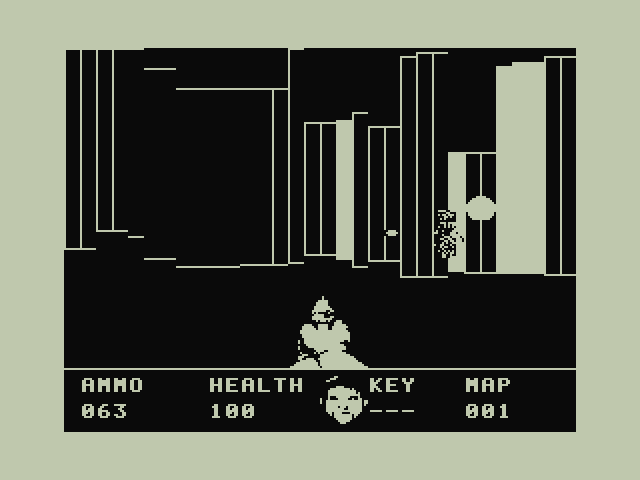
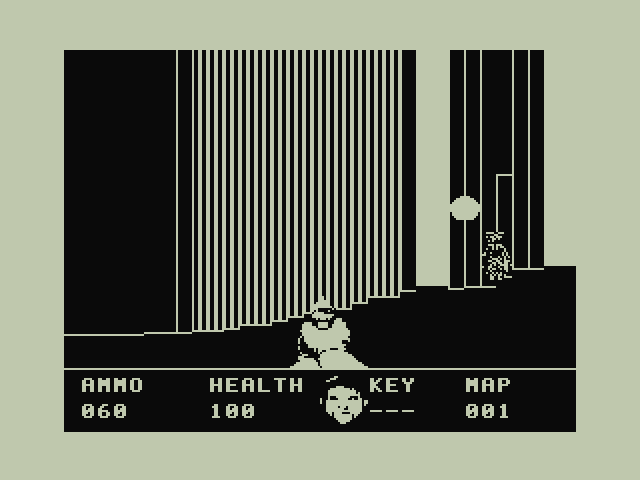
README media: regenerate on the credits-screen engine; a real fireball shot
The engine and E1M1 disk from main changed the frames, so the media are
recorded again with tools/readme-media.cjs (byte-identical on a rerun).
fireball.png is now picture 141, where the fireball is drawn in full
(pictures 108-110 show it only half, behind a pillar); hall.png is picture
131. Alt texts are rechecked against the new frames, and the caption uses
the canonical Freedoom credit (modified for the Dragon 64, licence text in
third_party/freedoom/COPYING.adoc).

Changed region(s): [[0.0938, 0.0938, 0.9062, 0.7188], [0.0938, 0.0938, 0.2188, 0.5312], [0.1562, 0.8438, 0.1875, 0.875]]

diff --git a/README.md b/README.md
@@ -17,18 +17,20 @@ above. `freedoom1.wad` is in the [Freedoom 0.13.0](https://freedoom.github.io)
 zip. For Freedoom E1M1 (and only that map) the result must have the
 SHA-256 pinned in [`release/expected.json`](release/expected.json).
 
-![WYRMFIRE in play: the player walks a Freedoom E1M1 corridor, turning and firing the pistol at monsters while a fireball flies past](docs/media/gameplay.gif)
+![WYRMFIRE in play: the player walks the Freedoom E1M1 level, turning and firing the pistol at monsters while an imp throws a fireball](docs/media/gameplay.gif)
 
 | | |
 |---|---|
 | ![Freedoom E1M1 just after the spawn: a long corridor with a distant monster, the pistol and the status bar](docs/media/spawn.png) | ![Three monsters across a room of stepped walls](docs/media/zombies.png) |
-| ![A fireball coming at the player from a monster between lit wall columns](docs/media/fireball.png) | ![A hall with a hatched wall and a monster at the far end](docs/media/hall.png) |
+| ![A round fireball flying at the player beside the monster that threw it, past a hatched wall](docs/media/fireball.png) | ![A hall with a hatched wall, a monster standing in a doorway and two small items on the floor](docs/media/hall.png) |
 
 *Recorded headless in CLOADM (Dragon 64, PAL, no ROMs) from the Freedoom
-E1M1 level disk. Level, sprites and sounds: [Freedoom](https://freedoom.github.io)
-0.13.0, © Contributors to the Freedoom project, BSD-3-Clause
-([LICENSES/freedoom.txt](LICENSES/freedoom.txt)). The GIF plays at the
-emulated machine's real frame rate. To regenerate: [README media](#readme-media).*
+E1M1 level disk. The level data is converted from [Freedoom](https://freedoom.github.io)
+0.13.0, Copyright © 2001-2024 Contributors to the Freedoom project, used under
+the BSD 3-Clause licence (full text: [third_party/freedoom/COPYING.adoc](third_party/freedoom/COPYING.adoc)),
+and has been modified for the Dragon 64. The Freedoom project does not endorse
+CLOADM or WYRMFIRE. The GIF plays at the emulated machine's real frame rate.
+To regenerate: [README media](#readme-media).*
 
 ## Running
 
